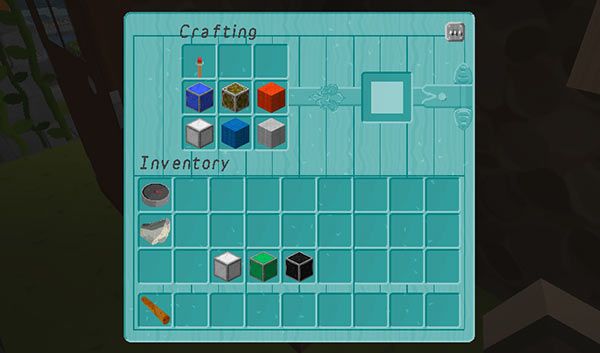
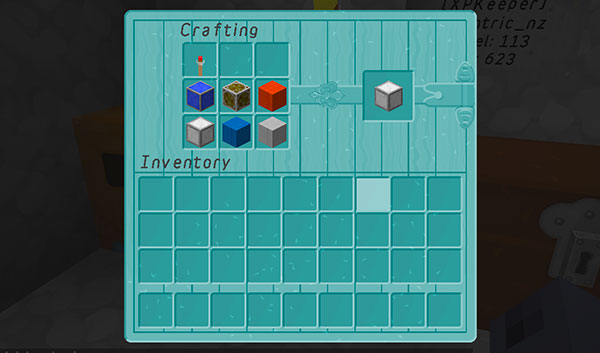
Update seed block crafting instructions

diff --git a/creating-a-tardis.html b/creating-a-tardis.html
@@ -32,17 +32,19 @@
 	<section>
 		<p><a href="#video">Jump to video</a></p>
 		<h1>Creating a TARDIS</h1>
-		<p>To create a TARDIS, you first need to craft a TARDIS seed block.</p>
+		<p>To create a TARDIS, you first need to craft a TARDIS seed block. The crafting recipe depends on which version of the plugin you have installed. Versions 2.6 &ndash; 3.6.x use <strong>7 items</strong>. Version 3.7 and higher use <strong>only 5 items</strong>.</p>
 		<h2>TARDIS Seed Blocks</h2>
-		<p>A seed block requires seven different components as explained below. You can mix and match your own combination of blocks (19,450,850 different combinations with the default plugin configuration) to customise the appearance of your TARDIS.</p>
+		<p>A seed block requires five or seven different components as explained below. You can mix and match your own combination of blocks (19,450,850 different combinations with the default plugin configuration) to customise the appearance of your TARDIS.</p>
+		<p><img src="images/docs/craftdefaultseed-v3.7.jpg" alt="Crafting a TARDIS seed block" /></p>
+		<p>The crafting grid above shows how to craft the default &lsquo;budget&rsquo; TARDIS that defaults to the FACTORY chameleon preset <strong>(TARDIS v3.7 and higher)</strong>:</p>
 		<p><img src="images/docs/craftdefaultseed.jpg" alt="Crafting a TARDIS seed block" /></p>
-		<p>The crafting grid above shows how to craft the default &lsquo;budget&rsquo; TARDIS with a blue Police Box:</p>
+		<p>The crafting grid above shows how to craft the default &lsquo;budget&rsquo; TARDIS with a blue Police Box <strong>(TARDIS v3.6.2 and lower)</strong>:</p>
 		<ul>
 			<li><strong>IRON block</strong> = TARDIS type, can be any of the current TARDIS &lsquo;type&rsquo; blocks e.g. IRON, GOLD, DIAMOND, EMERALD etc (<a href="#types">see list below</a>)</li>
 			<li><strong>LAPIS block</strong> = required block</li>
 			<li><strong>REDSTONE TORCH</strong> = required block</li>
-			<li><strong>BLUE WOOL</strong> = Police Box wall block, can be any block with an id from the <code>chameleon_blocks</code> configuration section in <em><a href="https://github.com/eccentricdevotion/TARDIS/blob/v3.0/src/main/resources/blocks.yml#L25">blocks.yml</a></em></li>
-			<li><strong>REDSTONE LAMP</strong> = Police Box lamp, can be any block with a material from the <code>lamp_blocks</code> configuration section in <em><a href="https://github.com/eccentricdevotion/TARDIS/blob/v3.0/src/main/resources/blocks.yml#L81">blocks.yml</a></em></li>
+			<li><strong>BLUE WOOL</strong> = Police Box wall block, can be any block with an id from the <code>chameleon_blocks</code> configuration section in <em><a href="https://github.com/eccentricdevotion/TARDIS/blob/v3.0/src/main/resources/blocks.yml#L25">blocks.yml</a></em> &mdash; <strong style="color:red">Leave empty for TARDIS v3.7 and above</strong></li>
+			<li><strong>REDSTONE LAMP</strong> = Police Box lamp, can be any block with a material from the <code>lamp_blocks</code> configuration section in <em><a href="https://github.com/eccentricdevotion/TARDIS/blob/v3.0/src/main/resources/blocks.yml#L81">blocks.yml</a></em> &mdash; <strong style="color:red">Leave empty for TARDIS v3.7 and above</strong></li>
 			<li><strong>LIGHT GREY WOOL</strong> = TARDIS interior floor block, can be any valid <a href="https://github.com/eccentricdevotion/TARDIS/blob/v3.0/src/main/java/me/eccentric_nz/TARDIS/rooms/TARDISWalls.java">TARDIS wall block</a></li>
 			<li><strong>ORANGE WOOL</strong> = TARDIS interior wall block, can be any valid <a href="https://github.com/eccentricdevotion/TARDIS/blob/v3.0/src/main/java/me/eccentric_nz/TARDIS/rooms/TARDISWalls.java">TARDIS wall block</a></li>
 		</ul>
@@ -72,6 +74,7 @@
 		<p>Your TARDIS requires a key, (default is a gold nugget, configurable in the config file).</p>
 		<p><strong>RIGHT</strong>-click the door with your &ldquo;key&rdquo; and it will transfer you into your new TARDIS interior!</p>
 		<h3 id="video">Video</h3>
+		<p>This video is now outdated, for TARDIS v3.7 and above do NOT include the exterior wall or lamp blocks!</p>
 		<iframe src="http://player.vimeo.com/video/80702478" width="600" height="366" frameborder="0" webkitallowfullscreen mozallowfullscreen allowfullscreen></iframe>
 		<p>&nbsp;</p>
 		<h2>Legacy TARDIS creation</h2>
